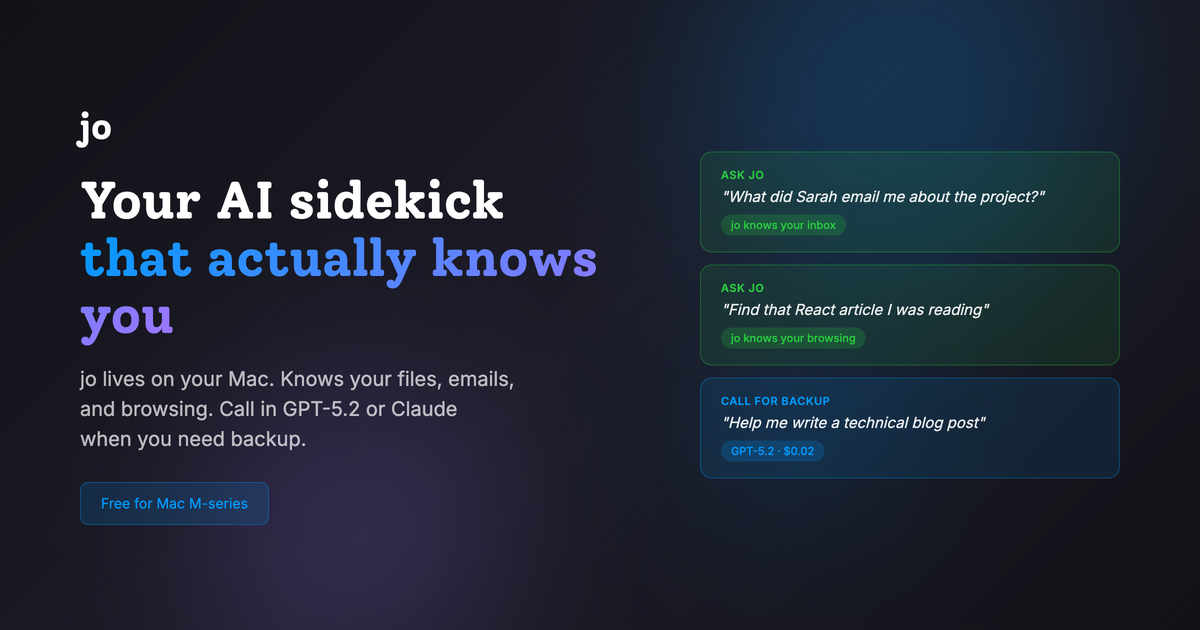
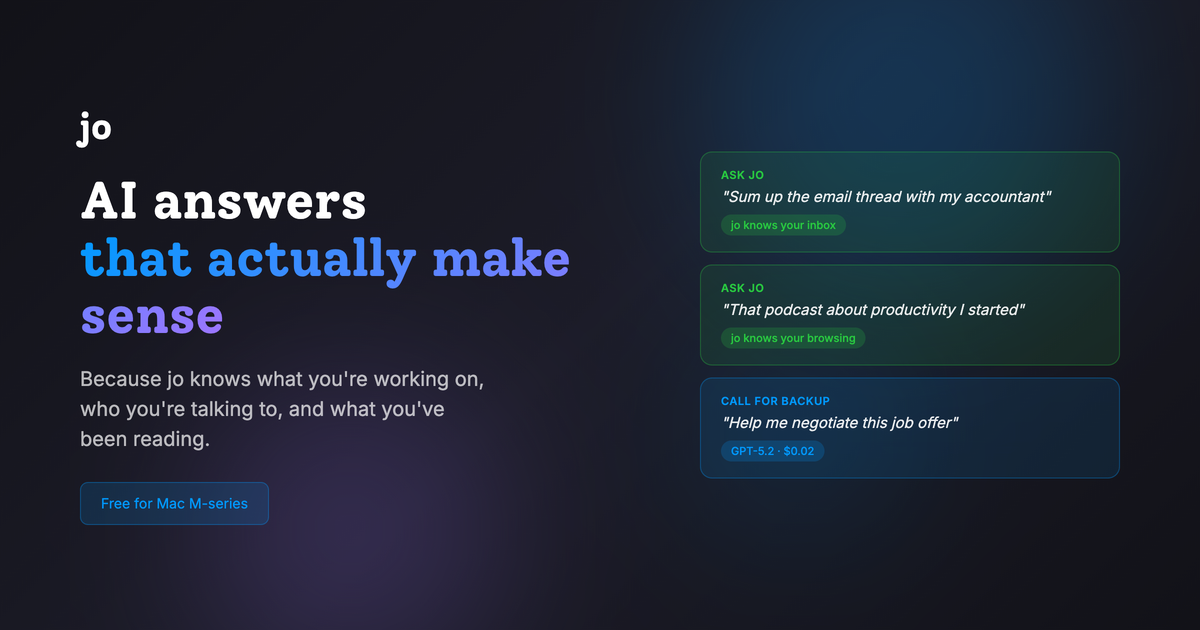
Update hero to benefit-focused messaging + new examples
- Headline: "AI answers that actually make sense"
- Subhead focuses on what jo knows (work, contacts, reading)
- New examples: accountant email, productivity podcast, job offer
- Updated meta tags to match

🤖 Generated with [Claude Code](https://claude.com/claude-code)

diff --git a/index.html b/index.html
@@ -4,14 +4,14 @@
 <head>
     <meta charset="UTF-8">
     <meta name="viewport" content="width=device-width, initial-scale=1.0">
-    <title>jo - Your AI Sidekick | Lives on Your Mac</title>
-    <meta name="description" content="jo knows your messages, emails, and browsing. Runs on your Mac. Call in GPT, Claude, Gemini when you need backup.">
+    <title>jo - AI Answers That Actually Make Sense</title>
+    <meta name="description" content="jo knows what you're working on, who you're talking to, and what you've been reading. Free for Mac M-series.">
 
     <!-- Open Graph / Facebook / LinkedIn -->
     <meta property="og:type" content="website">
     <meta property="og:url" content="https://liveinknewgithub.github.io/askjoai-website/">
-    <meta property="og:title" content="jo - Your AI Sidekick">
-    <meta property="og:description" content="jo knows your messages, emails, and browsing. Runs on your Mac. Call in GPT, Claude, Gemini when you need backup.">
+    <meta property="og:title" content="jo - AI Answers That Actually Make Sense">
+    <meta property="og:description" content="jo knows what you're working on, who you're talking to, and what you've been reading. Free for Mac M-series.">
     <meta property="og:image" content="https://liveinknewgithub.github.io/askjoai-website/og-image.png">
     <meta property="og:image:width" content="1200">
     <meta property="og:image:height" content="630">
@@ -19,8 +19,8 @@
     <!-- Twitter -->
     <meta name="twitter:card" content="summary_large_image">
     <meta name="twitter:url" content="https://liveinknewgithub.github.io/askjoai-website/">
-    <meta name="twitter:title" content="jo - Your AI Sidekick">
-    <meta name="twitter:description" content="jo knows your messages, emails, and browsing. Runs on your Mac. Call in GPT, Claude, Gemini when you need backup.">
+    <meta name="twitter:title" content="jo - AI Answers That Actually Make Sense">
+    <meta name="twitter:description" content="jo knows what you're working on, who you're talking to, and what you've been reading. Free for Mac M-series.">
     <meta name="twitter:image" content="https://liveinknewgithub.github.io/askjoai-website/og-image.png">
 
     <link rel="icon" type="image/svg+xml" href="favicon.svg">
@@ -54,11 +54,11 @@
             <div class="container">
                 <div class="hero-content hero-centered">
                     <h1 class="hero-title">
-                        Your AI sidekick<br>
-                        <span class="text-gradient">that actually knows you</span>
+                        AI answers<br>
+                        <span class="text-gradient">that actually make sense</span>
                     </h1>
                     <p class="hero-description">
-                        jo lives on your Mac. Knows your files, emails, and browsing. Call in GPT-5.2 or Claude when you need backup.
+                        Because jo knows what you're working on, who you're talking to, and what you've been reading.
                     </p>
                     <div class="hero-actions">
                         <a href="#download" class="btn btn-primary btn-large">Get jo Free</a>
@@ -70,17 +70,17 @@
                     <div class="example-cards">
                         <div class="example-card private float-animation">
                             <div class="example-label">Ask jo</div>
-                            <div class="example-content">"What did Sarah email me about the project?"</div>
+                            <div class="example-content">"Sum up the email thread with my accountant"</div>
                             <div class="example-badge local">jo knows your inbox</div>
                         </div>
                         <div class="example-card private float-animation">
                             <div class="example-label">Ask jo</div>
-                            <div class="example-content">"Find that React article I was reading"</div>
+                            <div class="example-content">"That podcast about productivity I started"</div>
                             <div class="example-badge local">jo knows your browsing</div>
                         </div>
                         <div class="example-card cloud float-animation">
                             <div class="example-label">Call for backup</div>
-                            <div class="example-content">"Help me write a technical blog post"</div>
+                            <div class="example-content">"Help me negotiate this job offer"</div>
                             <div class="example-badge cloud-badge">GPT-5.2 &middot; $0.02</div>
                         </div>
                     </div>

diff --git a/og-image.html b/og-image.html
@@ -193,10 +193,10 @@
         <div class="content">
             <div class="logo">jo</div>
             <h1 class="headline">
-                Your AI sidekick<br>
-                <span class="gradient">that actually knows you</span>
+                AI answers<br>
+                <span class="gradient">that actually make sense</span>
             </h1>
-            <p class="tagline">jo lives on your Mac. Knows your files, emails,<br>and browsing. Call in GPT-5.2 or Claude<br>when you need backup.</p>
+            <p class="tagline">Because jo knows what you're working on,<br>who you're talking to, and what you've<br>been reading.</p>
             <div class="cta-badge">
                 <span>Free for Mac M-series</span>
             </div>
@@ -205,17 +205,17 @@
         <div class="visual">
             <div class="example-card private">
                 <div class="example-label">Ask jo</div>
-                <div class="example-content">"What did Sarah email me about the project?"</div>
+                <div class="example-content">"Sum up the email thread with my accountant"</div>
                 <span class="example-badge local">jo knows your inbox</span>
             </div>
             <div class="example-card private">
                 <div class="example-label">Ask jo</div>
-                <div class="example-content">"Find that React article I was reading"</div>
+                <div class="example-content">"That podcast about productivity I started"</div>
                 <span class="example-badge local">jo knows your browsing</span>
             </div>
             <div class="example-card cloud">
                 <div class="example-label">Call for backup</div>
-                <div class="example-content">"Help me write a technical blog post"</div>
+                <div class="example-content">"Help me negotiate this job offer"</div>
                 <span class="example-badge cloud-badge">GPT-5.2 · $0.02</span>
             </div>
         </div>
